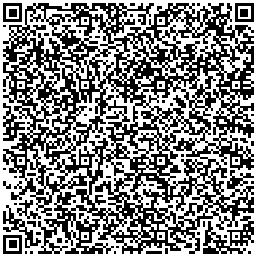
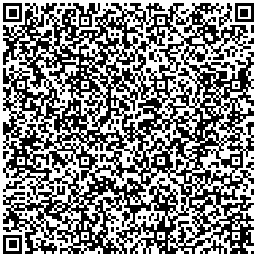
fix

diff --git a/README.md b/README.md
@@ -17,7 +17,7 @@
 
 | 小程序  | 二维码 |
 | ------------- | ------------- |
-| [勇者](https://share.dagouzhi.com/#/pages/index/index?data=%7B%22type%22%3A%22game%22%2C%22rotate%22%3A%22landscape%22%2C%22name%22%3A%22%E5%8B%87%E8%80%85%22%2C%22projectname%22%3A%22%E5%8B%87%E8%80%85%22%2C%22appid%22%3A%22fe27d0d96e8fe86bce2eb341386c9f37%22%2C%22appUrlConfig%22%3A%22https%3A%2F%2Fraw.githubusercontent.com%2Fhtyf-mp-community%2Fdemo%2Fmain%2Fv2%2Fplugin_wgpu%2Flatest%2Fapp.json%22%2C%22zipUrl%22%3A%22https%3A%2F%2Fraw.githubusercontent.com%2Fhtyf-mp-community%2Fdemo%2Fmain%2Fv2%2Fplugin_wgpu%2Flatest%2Fdist.%5BPLATFORM%5D.dgz%22%2C%22version%22%3A%221.0.5%22%2C%22engines%22%3A%222.0.0%22%7D)  | [![小程序码](./v2/game/latest/qrcode.png)](https://share.dagouzhi.com/#/pages/index/index?data=%7B%22type%22%3A%22game%22%2C%22rotate%22%3A%22landscape%22%2C%22name%22%3A%22%E5%8B%87%E8%80%85%22%2C%22projectname%22%3A%22%E5%8B%87%E8%80%85%22%2C%22appid%22%3A%22fe27d0d96e8fe86bce2eb341386c9f37%22%2C%22appUrlConfig%22%3A%22https%3A%2F%2Fraw.githubusercontent.com%2Fhtyf-mp-community%2Fdemo%2Fmain%2Fv2%2Fplugin_wgpu%2Flatest%2Fapp.json%22%2C%22zipUrl%22%3A%22https%3A%2F%2Fraw.githubusercontent.com%2Fhtyf-mp-community%2Fdemo%2Fmain%2Fv2%2Fplugin_wgpu%2Flatest%2Fdist.%5BPLATFORM%5D.dgz%22%2C%22version%22%3A%221.0.5%22%2C%22engines%22%3A%222.0.0%22%7D) |
+| [勇者](https://share.dagouzhi.com/#/pages/index/index?data=%7B%22type%22%3A%22game%22%2C%22rotate%22%3A%22landscape%22%2C%22name%22%3A%22%E5%8B%87%E8%80%85%22%2C%22projectname%22%3A%22%E5%8B%87%E8%80%85%22%2C%22appid%22%3A%22fe27d0d96e8fe86bce2eb341386c9f37%22%2C%22appUrlConfig%22%3A%22https%3A%2F%2Fraw.githubusercontent.com%2Fhtyf-mp-community%2Fdemo%2Fmain%2Fv2%2Fgame%2Flatest%2Fapp.json%22%2C%22zipUrl%22%3A%22https%3A%2F%2Fraw.githubusercontent.com%2Fhtyf-mp-community%2Fdemo%2Fmain%2Fv2%2Fgame%2Flatest%2Fdist.%5BPLATFORM%5D.dgz%22%2C%22version%22%3A%221.0.6%22%2C%22engines%22%3A%222.0.0%22%7D)  | [![小程序码](./v2/game/latest/qrcode.png)](https://share.dagouzhi.com/#/pages/index/index?data=%7B%22type%22%3A%22game%22%2C%22rotate%22%3A%22landscape%22%2C%22name%22%3A%22%E5%8B%87%E8%80%85%22%2C%22projectname%22%3A%22%E5%8B%87%E8%80%85%22%2C%22appid%22%3A%22fe27d0d96e8fe86bce2eb341386c9f37%22%2C%22appUrlConfig%22%3A%22https%3A%2F%2Fraw.githubusercontent.com%2Fhtyf-mp-community%2Fdemo%2Fmain%2Fv2%2Fgame%2Flatest%2Fapp.json%22%2C%22zipUrl%22%3A%22https%3A%2F%2Fraw.githubusercontent.com%2Fhtyf-mp-community%2Fdemo%2Fmain%2Fv2%2Fgame%2Flatest%2Fdist.%5BPLATFORM%5D.dgz%22%2C%22version%22%3A%221.0.6%22%2C%22engines%22%3A%222.0.0%22%7D) |
 | [动漫基地](https://share.dagouzhi.com/#/pages/index/index?data=%7B%22type%22%3A%22app%22%2C%22engines%22%3A%222.0.0%22%2C%22name%22%3A%22%E5%8A%A8%E6%BC%AB%E5%9F%BA%E5%9C%B0%22%2C%22appid%22%3A%22plugin_animation%22%2C%22version%22%3A%220.0.11%22%2C%22appUrlConfig%22%3A%22https%3A%2F%2Fraw.githubusercontent.com%2Fhtyf-mp-community%2Fdemo%2Fmain%2Fv2%2Fplugin_animation%2Flatest%2Fapp.json%22%2C%22zipUrl%22%3A%22https%3A%2F%2Fraw.githubusercontent.com%2Fhtyf-mp-community%2Fdemo%2Fmain%2Fv2%2Fplugin_animation%2Flatest%2Fdist.dgz%22%7D)  | [![小程序码](./v2/plugin_animation/latest/qrcode.png)](https://share.dagouzhi.com/#/pages/index/index?data=%7B%22type%22%3A%22app%22%2C%22engines%22%3A%222.0.0%22%2C%22name%22%3A%22%E5%8A%A8%E6%BC%AB%E5%9F%BA%E5%9C%B0%22%2C%22appid%22%3A%22plugin_animation%22%2C%22version%22%3A%220.0.11%22%2C%22appUrlConfig%22%3A%22https%3A%2F%2Fraw.githubusercontent.com%2Fhtyf-mp-community%2Fdemo%2Fmain%2Fv2%2Fplugin_animation%2Flatest%2Fapp.json%22%2C%22zipUrl%22%3A%22https%3A%2F%2Fraw.githubusercontent.com%2Fhtyf-mp-community%2Fdemo%2Fmain%2Fv2%2Fplugin_animation%2Flatest%2Fdist.dgz%22%7D) |
 | [godot](https://share.dagouzhi.com/#/pages/index/index?data=%7B%22type%22%3A%22app%22%2C%22engines%22%3A%222.0.0%22%2C%22name%22%3A%22godot%22%2C%22appid%22%3A%22plugin_godot%22%2C%22version%22%3A%220.0.5%22%2C%22appUrlConfig%22%3A%22https%3A%2F%2Fraw.githubusercontent.com%2Fhtyf-mp-community%2Fdemo%2Fmain%2Fv2%2Fplugin_godot%2Flatest%2Fapp.json%22%2C%22zipUrl%22%3A%22https%3A%2F%2Fraw.githubusercontent.com%2Fhtyf-mp-community%2Fdemo%2Fmain%2Fv2%2Fplugin_godot%2Flatest%2Fdist.dgz%22%7D)  | [![小程序码](./v2/plugin_godot/latest/qrcode.png)](https://share.dagouzhi.com/#/pages/index/index?data=%7B%22type%22%3A%22app%22%2C%22engines%22%3A%222.0.0%22%2C%22name%22%3A%22godot%22%2C%22appid%22%3A%22plugin_godot%22%2C%22version%22%3A%220.0.5%22%2C%22appUrlConfig%22%3A%22https%3A%2F%2Fraw.githubusercontent.com%2Fhtyf-mp-community%2Fdemo%2Fmain%2Fv2%2Fplugin_godot%2Flatest%2Fapp.json%22%2C%22zipUrl%22%3A%22https%3A%2F%2Fraw.githubusercontent.com%2Fhtyf-mp-community%2Fdemo%2Fmain%2Fv2%2Fplugin_godot%2Flatest%2Fdist.dgz%22%7D) |
 | [直播基地](https://share.dagouzhi.com/#/pages/index/index?data=%7B%22type%22%3A%22app%22%2C%22engines%22%3A%222.0.0%22%2C%22name%22%3A%22%E7%9B%B4%E6%92%AD%E5%9F%BA%E5%9C%B0%22%2C%22appid%22%3A%22plugin_live%22%2C%22version%22%3A%220.0.24%22%2C%22appUrlConfig%22%3A%22https%3A%2F%2Fraw.githubusercontent.com%2Fhtyf-mp-community%2Fdemo%2Fmain%2Fv2%2Fplugin_live%2Flatest%2Fapp.json%22%2C%22zipUrl%22%3A%22https%3A%2F%2Fraw.githubusercontent.com%2Fhtyf-mp-community%2Fdemo%2Fmain%2Fv2%2Fplugin_live%2Flatest%2Fdist.dgz%22%7D)  | [![小程序码](./v2/plugin_live/latest/qrcode.png)](https://share.dagouzhi.com/#/pages/index/index?data=%7B%22type%22%3A%22app%22%2C%22engines%22%3A%222.0.0%22%2C%22name%22%3A%22%E7%9B%B4%E6%92%AD%E5%9F%BA%E5%9C%B0%22%2C%22appid%22%3A%22plugin_live%22%2C%22version%22%3A%220.0.24%22%2C%22appUrlConfig%22%3A%22https%3A%2F%2Fraw.githubusercontent.com%2Fhtyf-mp-community%2Fdemo%2Fmain%2Fv2%2Fplugin_live%2Flatest%2Fapp.json%22%2C%22zipUrl%22%3A%22https%3A%2F%2Fraw.githubusercontent.com%2Fhtyf-mp-community%2Fdemo%2Fmain%2Fv2%2Fplugin_live%2Flatest%2Fdist.dgz%22%7D) |
